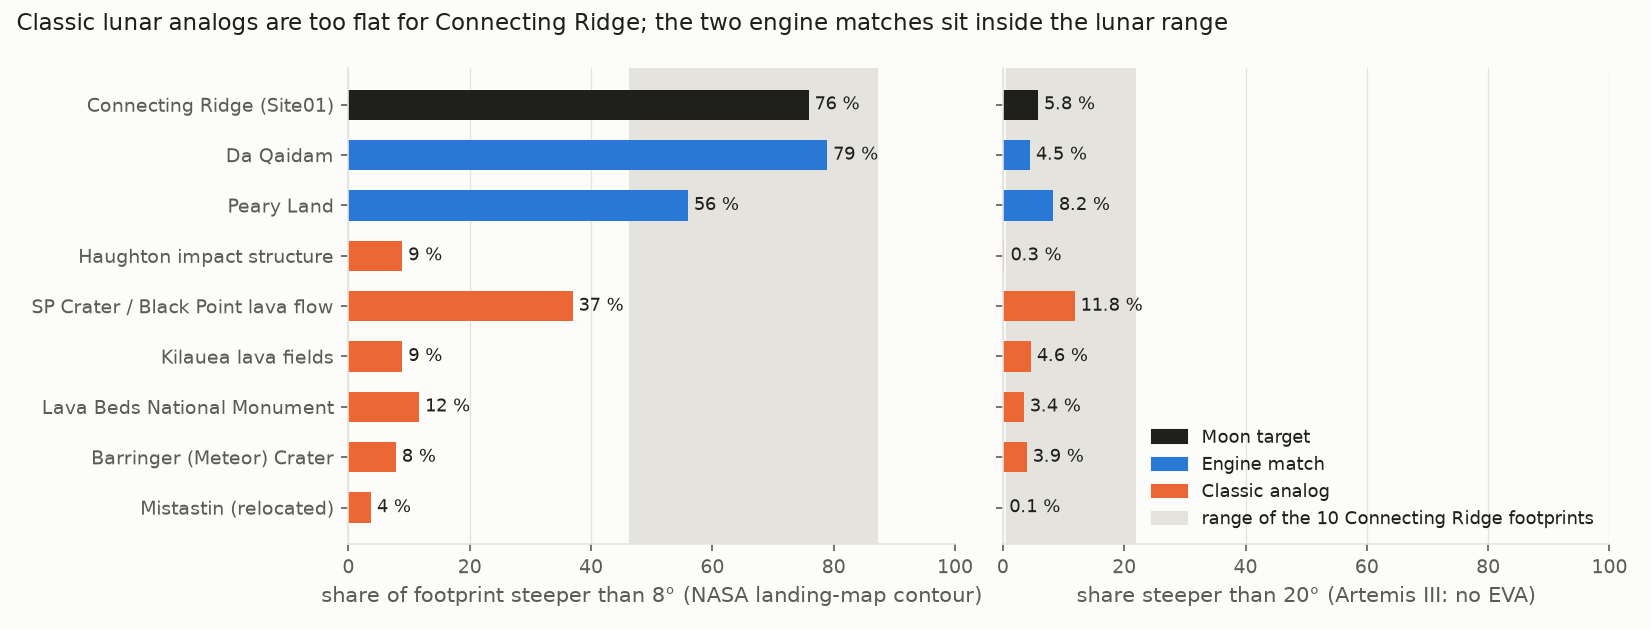
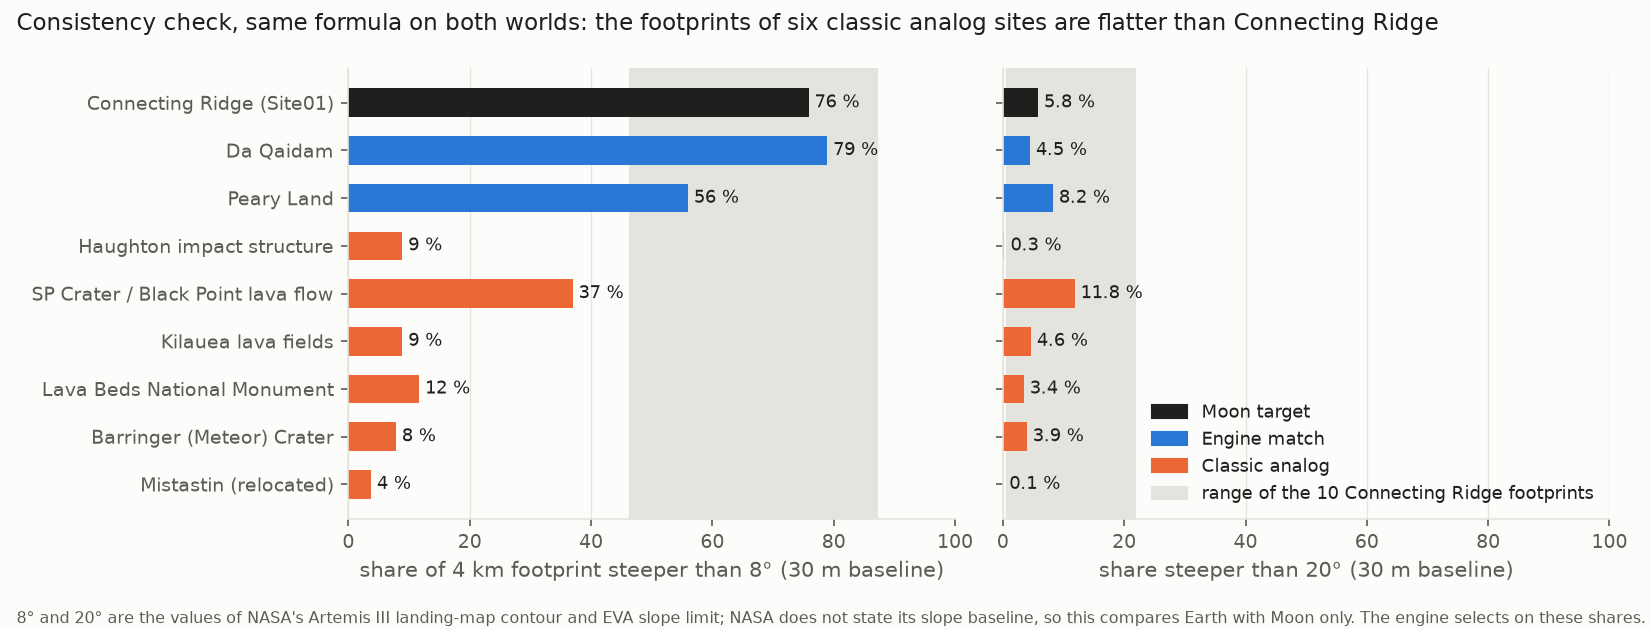
PLAN 2d gate round 2: labels and wording (30 m baseline on figures, M1 column withheld, X1 day length at polar sites, same island/plateau different footprints)

diff --git a/scripts/figures_report.py b/scripts/figures_report.py
@@ -179,8 +179,8 @@ def fig_mission_slopes():
     label = [str(n if isinstance(n, str) and n else i).split(",")[0][:34]
              for n, i in zip(c["name"], c["id"], strict=True)]
     fig, axes = plt.subplots(1, 2, figsize=(11, 4.2), facecolor=SURFACE, sharey=True)
-    panels = [("frac_gt8", "share of footprint steeper than 8° (NASA landing-map contour)", 0),
-              ("frac_gt20", "share steeper than 20° (Artemis III: no EVA)", 1)]
+    panels = [("frac_gt8", "share of 4 km footprint steeper than 8° (30 m baseline)", 0),
+              ("frac_gt20", "share steeper than 20° (30 m baseline)", 1)]
     for ax, (col, title, nd) in zip(axes, panels, strict=True):
         style(ax)
         lo, hi = c[f"range_lo_{col}"].iloc[0], c[f"range_hi_{col}"].iloc[0]
@@ -200,9 +200,14 @@ def fig_mission_slopes():
     n_fp = int(c["n_target_footprints"].iloc[0])
     axes[1].legend(handles, [*color.keys(), f"range of the {n_fp} Connecting Ridge footprints"],
                    loc="lower right", fontsize=8.5, frameon=False, labelcolor=INK)
-    fig.suptitle("Classic lunar analogs are too flat for Connecting Ridge; the two engine "
-                 "matches sit inside the lunar range", x=0.01, ha="left", fontsize=11, color=INK)
-    fig.tight_layout()
+    fig.suptitle("Consistency check, same formula on both worlds: the footprints of six classic "
+                 "analog sites are flatter than Connecting Ridge", x=0.01, ha="left",
+                 fontsize=11, color=INK)
+    fig.text(0.01, 0.005, "8° and 20° are the values of NASA's Artemis III landing-map contour "
+             "and EVA slope limit; NASA does not state its slope baseline, so this compares "
+             "Earth with Moon only. The engine selects on these shares.", fontsize=7.5,
+             color=INK2, ha="left", va="bottom")
+    fig.tight_layout(rect=(0, 0.04, 1, 1))
     fig.savefig(FIG / "fig_mission_slopes.png", dpi=150, facecolor=SURFACE)
     plt.close(fig)
 
@@ -215,10 +220,12 @@ def fig_transfer_matrix():
     import mission_value as mv
 
     cov = mv.coverage(pd.read_parquet(DERIVED / "verdicts.parquet"))
+    cov = cov[cov["lens_id"].ne("M1")]  # stop rule FAIL: M1 publishes no site, no cells drawn
     lenses = ["L1", "L2", "M1", "X1"]
     order = cov.assign(r=cov["state"].map({s: i for i, s in enumerate(mv.STATE_ORDER)}))
     variables = list(order.sort_values(["r", "variable"])["variable"].drop_duplicates())
-    state = {(r.lens_id, r.variable): (r.state, bool(r.facility)) for r in cov.itertuples()}
+    state = {(r.lens_id, r.variable): (r.state, isinstance(r.facility, str) and bool(r.facility))
+             for r in cov.itertuples()}
     look = {"TRANSFERS": (SERIES["L1"], "field", SURFACE),
             "NO-ANALOG": (SERIES["L2"], "facility", INK), "UNOBSERVED": ("#c9c8c2", "?", INK)}
     fig, ax = plt.subplots(figsize=(8.2, 0.34 * len(variables) + 1.6), facecolor=SURFACE)
@@ -233,6 +240,10 @@ def fig_transfer_matrix():
                 txt = "no analog"
             ax.add_patch(plt.Rectangle((xi + 0.04, yi + 0.08), 0.92, 0.84, color=col))
             ax.text(xi + 0.5, yi + 0.5, txt, ha="center", va="center", fontsize=8, color=ink)
+    xm = lenses.index("M1")
+    ax.add_patch(plt.Rectangle((xm + 0.04, 0.08), 0.92, len(variables) - 0.16, color=GRID))
+    ax.text(xm + 0.5, len(variables) / 2, "stop rule FAIL: no site published, no verdict shown",
+            rotation=90, ha="center", va="center", fontsize=8.5, color=INK2)
     ax.set_xlim(0, len(lenses))
     ax.set_ylim(len(variables), 0)
     ax.set_xticks([i + 0.5 for i in range(len(lenses))],
@@ -240,17 +251,22 @@ def fig_transfer_matrix():
                    "X1 ice\n(Mars)"])
     ax.xaxis.tick_top()
     ax.set_yticks([i + 0.5 for i in range(len(variables))],
-                  [v.replace("_", " ")[:44] for v in variables])
+                  [v.replace("_", " ")[:44] + (" *" if v == "day_night_cycle" else "")
+                   for v in variables])
     ax.tick_params(length=0, colors=INK2, labelsize=8.5)
     for s in ax.spines.values():
         s.set_visible(False)
     handles = [plt.Rectangle((0, 0), 1, 1, color=look[s][0]) for s in mv.STATE_ORDER]
     ax.legend(handles, ["TRANSFERS: test it in the field",
                         "NO-ANALOG: not reproduced on Earth; the card names the facility",
-                        "UNOBSERVED: this engine cannot say"], loc="upper center",
+                        "UNOBSERVED: this engine cannot say",
+                        ], loc="upper center",
               bbox_to_anchor=(0.5, -0.02), ncol=1, fontsize=8.5, frameon=False, labelcolor=INK)
     fig.suptitle("Test-transfer matrix: which rows of a field test come home valid",
                  x=0.01, ha="left", fontsize=11, color=INK)
+    fig.text(0.01, 0.005, "* planet-level ledger row (a Mars sol is 24.6 h): the polar ice sites "
+             "do not reproduce it in the midnight-sun field season.", fontsize=7.5, color=INK2,
+             ha="left", va="bottom")
     fig.tight_layout()
     fig.savefig(FIG / "fig_transfer_matrix.png", dpi=150, facecolor=SURFACE)
     plt.close(fig)

diff --git a/scripts/report_tables.py b/scripts/report_tables.py
@@ -276,7 +276,9 @@ def t_mission_headline() -> str:
         f"measure a field site reproduces {cov['L1']['TRANSFERS']} of "
         f"{sum(cov['L1'].values())} L1 test variables, {cov['L2']['TRANSFERS']} of "
         f"{sum(cov['L2'].values())} for L2 and {cov['X1']['TRANSFERS']} of "
-        f"{sum(cov['X1'].values())} for X1; every other row names the facility that replaces "
+        f"{sum(cov['X1'].values())} for X1 (one of them the day length, which the polar X1 "
+        f"sites do not reproduce in the midnight-sun season); every other row names the "
+        f"facility that replaces "
         f"the field site, or is marked unobserved (`docs/test_protocols.md`). M1 publishes no "
         f"site.",
     ])
@@ -330,8 +332,8 @@ def t_mission_criteria() -> str:
     out = pd.DataFrame({
         "group": c["group"], "site": c["name"].fillna(c["id"]), "cell": c["id"],
         "median slope °": c["slope_p50"].round(1),
-        "steeper than 8° (landing-map contour)": [_pct(x) for x in c["frac_gt8"]],
-        "steeper than 20° (no-EVA)": [_pct(x, 1) for x in c["frac_gt20"]],
+        "steeper than 8° (30 m baseline)": [_pct(x) for x in c["frac_gt8"]],
+        "steeper than 20° (30 m baseline)": [_pct(x, 1) for x in c["frac_gt20"]],
         "8° share inside target range": c["in_range_frac_gt8"].map({True: "yes", False: "no"}),
         "20° share inside target range": c["in_range_frac_gt20"].map({True: "yes",
                                                                        False: "no"})})
@@ -360,7 +362,11 @@ def t_coverage() -> str:
             "targets (L1 slope–roughness and L2 shadow casting transfer for both targets; M1 "
             "aqueous minerals are NO-ANALOG for the two analog targets and UNOBSERVED for the "
             "other two; M1's only TRANSFERS row is the day–night cycle from the ledger, and M1 "
-            "publishes no site).")
+            "publishes no site). The day–night cycle is a planet-level ledger row (a Mars sol "
+            "is 24.6 h): the X1 sites that pass are polar and do not reproduce it in the "
+            "midnight-sun field season, so at those sites X1 reproduces 1 variable, not 2. "
+            "The null extrapolation of §1 refers to cells passing the robust set, before the "
+            "ice filter and the visual review.")
 
 
 def t_task_attention() -> str:

diff --git a/scripts/mission_value.py b/scripts/mission_value.py
@@ -8,7 +8,7 @@ mission_criteria : slope descriptors of the Moon targets, of the Earth cells the
                    published Artemis III slope requirements (config/mission.yaml).
 validity         : per lens, what the controls show for the CURRENT engine: random bare land
                    (null) passing the L1 robust test, classic controls, X1 controls and decoys,
-                   M1 stop-rule checks; and the blind rediscovery of known-analog zones.
+                   M1 stop-rule checks; and a sanity check against known-analog zones.
 coverage         : per lens, how many test variables TRANSFER / are NO-ANALOG / UNOBSERVED.
 task_attention   : OpenAlex counts of the named sites with a Moon-only and a Mars-only context
                    (supplementary; hidden_status is NOT recomputed from it).
@@ -170,7 +170,7 @@ def coverage(verdicts: pd.DataFrame) -> pd.DataFrame:
     """Per lens and test variable, one state: the test-transfer matrix (lens/target-level rows)."""
     v = verdicts[verdicts["cell_id"].fillna("").eq("")].copy()
     v["rank"] = v["state"].map({s: i for i, s in enumerate(STATE_ORDER)})
-    v = v.sort_values("rank").drop_duplicates(["lens_id", "variable"])
+    v = v.sort_values("rank", kind="stable").drop_duplicates(["lens_id", "variable"])
     return v[["lens_id", "variable", "state", "facility"]].sort_values(
         ["lens_id", "state", "variable"]).reset_index(drop=True)
 

diff --git a/docs/validation_report.md b/docs/validation_report.md
@@ -42,7 +42,7 @@ matching, and a single verdict source. **Every table below is written by
 - **How selective the L1 test is.** Random bare land (null sample) enters the robust set for Connecting Ridge in 1 of 200 cells and for the Shackleton inner wall in 4 of 200; 0 of the 6 classic controls enter it. A null cell that passes is not an error: it is terrain that matches. Extrapolated to the 196,008 bare-land cells, about 980 cells (95 % CI 25–5,398) would pass for Connecting Ridge, so "2 usable cells" describes our 307-cell sample, not the Earth.
 - **Sanity check against known-analog zones.** 68 of the 300 cells the terrain screen picked lie in known-analog zones (23 %), against 1.4 % of all bare land but 16 % of bare land with the same coarse slope and relief (1.4-fold): most of the excess is steep dry terrain itself. By site, 1 of the 27 Shackleton-wall sites (the largest, Atacama–Puna) and 0 of the 2 Connecting Ridge sites hold a cell in a zone of our list (`config/exclusion_zones.yaml`, which does not list Qaidam).
 - **X1 controls on the current checklist:** 2 of 2 positive controls pass (Beacon Valley is the calibration site, Axel Heiberg is independent) and 2 of 2 wet lowland decoys are rejected. M1: 3 of 4 pre-registered checks pass, so the stop rule is FAIL.
-- **Test-matrix coverage (best state over a lens' targets):** by this engine's measure a field site reproduces 1 of 7 L1 test variables, 1 of 9 for L2 and 2 of 9 for X1; every other row names the facility that replaces the field site, or is marked unobserved (`docs/test_protocols.md`). M1 publishes no site.
+- **Test-matrix coverage (best state over a lens' targets):** by this engine's measure a field site reproduces 1 of 7 L1 test variables, 1 of 9 for L2 and 2 of 9 for X1 (one of them the day length, which the polar X1 sites do not reproduce in the midnight-sun season); every other row names the facility that replaces the field site, or is marked unobserved (`docs/test_protocols.md`). M1 publishes no site.
 <!-- END:mission_headline -->
 
 ### By lens
@@ -445,7 +445,7 @@ the cells cluster into few sites.
 ![Shares of terrain steeper than 8° and 20°: Connecting Ridge, engine matches, classic lunar analogs](figures/fig_mission_slopes.png)
 
 <!-- BEGIN:mission_criteria -->
-| group | site | cell | median slope ° | steeper than 8° (landing-map contour) | steeper than 20° (no-EVA) | 8° share inside target range | 20° share inside target range |
+| group | site | cell | median slope ° | steeper than 8° (30 m baseline) | steeper than 20° (30 m baseline) | 8° share inside target range | 20° share inside target range |
 |---|---|---|---|---|---|---|---|
 | Moon target | Connecting Ridge (Site01) | connecting_ridge | 12.4 | 76 % | 5.8 % | yes | yes |
 | Engine match | Da Qaidam, northern Qaidam Basin margin (Qinghai) | E10K_453_921 | 10.5 | 79 % | 4.5 % | yes | yes |
@@ -472,7 +472,7 @@ Target range = minimum to maximum over the 10 Connecting Ridge footprints (PGDA 
 | M1 | day_night_cycle | aqueous_mineral; atmospheric_pressure; gravity; perchlorate; radiation_dose; temperature | Hydration bands at 1.4 and 1.9 um; Serpentine vs Mg-carbonate |
 | X1 | day_night_cycle; ice_configuration | angle_of_repose; atmospheric_pressure; gravity; perchlorate; radiation_dose; temperature | Overburden dielectric properties (radar / GPR response) |
 
-One state per lens and variable: the best state over the lens' targets (L1 slope–roughness and L2 shadow casting transfer for both targets; M1 aqueous minerals are NO-ANALOG for the two analog targets and UNOBSERVED for the other two; M1's only TRANSFERS row is the day–night cycle from the ledger, and M1 publishes no site).
+One state per lens and variable: the best state over the lens' targets (L1 slope–roughness and L2 shadow casting transfer for both targets; M1 aqueous minerals are NO-ANALOG for the two analog targets and UNOBSERVED for the other two; M1's only TRANSFERS row is the day–night cycle from the ledger, and M1 publishes no site). The day–night cycle is a planet-level ledger row (a Mars sol is 24.6 h): the X1 sites that pass are polar and do not reproduce it in the midnight-sun field season, so at those sites X1 reproduces 1 variable, not 2. The null extrapolation of §1 refers to cells passing the robust set, before the ice filter and the visual review.
 <!-- END:coverage -->
 
 Each showcase site has a test protocol built from this matrix (systems under test, the published
@@ -532,7 +532,7 @@ evidence of order; where git cannot prove the order, the row says so.
 | 22 | B10 visual-review downgrades cap a site's lens at `hypothesis` | 2c gate round 2 | Hard rule: no `hypothesis` on slides | Gêrzê L2, other downgraded L2 cells; Gêrzê leaves the showcase |
 | 23 | X1 seed list (incl. Peary Land) committed with the first X1 scores | 16:02, `b76b21f` | Contract and results pushed together | X1 seeds are not provably pre-registered |
 | 24 | M1 noise floor (B14b) computed on all 69 null footprints (490,734 pixels), not on the floor-setting half of the null that PLAN B14a/B14b specified | B13 null run, 14/11 | Implementation used the whole pool | Floors are fitted on the same null pixels later used to judge false matches, so the false-match check is not independent; M1 failed its stop rule regardless |
-| 25 | Mission-criterion reading (shares of terrain steeper than 8° and 20° set beside the Artemis III requirements), per-lens validity summary, null false-positive rate and blind-rediscovery test | PLAN 2d, 15/11 midday | Tie the results to published NASA requirements; L1 lacked any positive check | Post hoc: computed after every result was known. `frac_gt8` and `frac_gt20` were L1 descriptors from the start (so the slope reading is a consistency check, not an independent test) and `config/exclusion_zones.yaml` was drawn before scoring, but none of these comparisons was pre-registered. The zone check uses an unstratified and a terrain-matched base rate, ignores spatial clustering (no p-value is reported; sites are counted) and the zone list is incomplete (Qaidam, a known Mars analog region, is not in it). The NASA limits are operational limits read at an unstated slope baseline, not similarity targets. No threshold or verdict changed |
+| 25 | Mission-criterion reading (shares of terrain steeper than 8° and 20° set beside the Artemis III requirements), per-lens validity summary, pass rate of random bare land (a prevalence estimate) and the sanity check against known-analog zones | PLAN 2d, 15/11 midday | Tie the results to published NASA requirements; L1 lacked any positive check | Post hoc: computed after every result was known. `frac_gt8` and `frac_gt20` were L1 descriptors from the start (so the slope reading is a consistency check, not an independent test) and `config/exclusion_zones.yaml` was drawn before scoring, but none of these comparisons was pre-registered. The zone check uses an unstratified and a terrain-matched base rate, ignores spatial clustering (no p-value is reported; sites are counted) and the zone list is incomplete (Qaidam, a known Mars analog region, is not in it). The NASA limits are operational limits read at an unstated slope baseline, not similarity targets. No threshold or verdict changed |
 | 26 | Task-specific Attention (Moon-only and Mars-only context on the site-name queries) | PLAN 2d, 15/11 midday | Fidelity is per task; the B8 context mixes both bodies | Supplementary table only; `hidden_status` unchanged |
 | 27 | Test protocols and the TRL reading of a card (`docs/test_protocols.md`) | PLAN 2d, 15/11 midday | State what a field campaign may claim | A card is an input to a project's own definition of its relevant environment; no hardware was tested and no TRL is assigned or certified |
 

diff --git a/docs/slides_draft.md b/docs/slides_draft.md
@@ -30,7 +30,7 @@ Challenge: Identify Earth Locations that Analog the Permanent Moon Base Location
 Team ⟨name⟩ · NASA Space Apps 2026, Ho Chi Minh City.
 Visual: wind-tunnel model | Moon south pole | Mars (split frame).
 
-## Slide 2 — The problem: famous analog field sites are too flat for the Moon Base ridge
+## Slide 2 — The problem: six famous analog field sites are too flat for the Moon Base ridge
 - NASA's Artemis III landing requirements: **"Surface slope for landing (100m): <10 deg"**, with
   8° contours on the landing map, and **"Surface slope limit for EVA (2km): <20 deg"**
   (NASA, Artemis Human Landing System Overview, Space Apps 2025, NTRS 20250009323).
@@ -60,7 +60,8 @@ Visual: data-flow diagram, NASA data on both sides → same functions → verdic
 ## Slide 4 — Can you trust it? Controls, decoys and a failed test we report
 - **Terrain test is selective:** random bare land passes it for Connecting Ridge in **1 of 200**
   cells [`null_connecting_ridge_robust` / `null_connecting_ridge_n`]; **0 of 6** classic sites
-  pass [`classic_robust`]; the result holds in three test configurations.
+  pass [`classic_robust`]. A cell must pass three test configurations; the strictest one cuts
+  the screened cells from 119 to 5 (report §3).
 - **Ice test:** **2 of 2** polar-desert controls pass (one is the calibration site), **2 of 2**
   wet-permafrost decoys are rejected [`x1_positive_pass`, `x1_decoy_rejected`]; our own
   Pamir–Changtang hypothesis is rejected, **0 of 6** [`x1_pamir_changtang_pass` /
@@ -70,9 +71,11 @@ Visual: data-flow diagram, NASA data on both sides → same functions → verdic
   `m1_checks_n`], but NASA's Lake Salda pair reaches only **0.052 km²** < 0.1 km²
   [`salda_relocated_largest_patch_km2`]. Our rule says FAIL [`m1_stop_rule_verdict`], so **we
   publish no mineral analog**.
-- **Sanity check, not proof:** the largest site the terrain engine finds is the Atacama–Puna,
-  the most used analog region — **1 of 27** sites [`rediscovery_shackleton_rim_sites_with_zone_cell`
-  / `rediscovery_shackleton_rim_sites`].
+- **Sanity check, not proof:** for the steep Shackleton wall (not the ridge), the largest site
+  the terrain engine finds is the Atacama–Puna, one of the most studied analog regions —
+  **1 of 27** sites [`rediscovery_shackleton_rim_sites_with_zone_cell` /
+  `rediscovery_shackleton_rim_sites`]; against land of the same coarse terrain the excess is
+  only **1.4-fold** [`rediscovery_matched_enrichment`].
 - Every rule changed after seeing data is listed in the report (Deviations table).
 Visual: `docs/figures/fig_m1_stop_rule.png` beside a four-row control table.
 
@@ -92,15 +95,16 @@ Visual: `docs/figures/fig_m1_stop_rule.png` beside a four-row control table.
   `scarcity_L1_connecting_ridge_n_usable_not_downgraded`].
 - **Known for Mars, 1 paper in a lunar context:** Da Qaidam is a known Mars analog region,
   **71** analog papers in a Mars context and **1** in a Moon context
-  [`task_attention_da_qaidam_mars`, `task_attention_da_qaidam_moon`]; new here is its match to
-  the Moon Base ridge. Neither site is in our known-analog zone list
+  [`task_attention_da_qaidam_mars`, `task_attention_da_qaidam_moon`] (the query covers the
+  whole Qaidam basin): rarely studied in a lunar context. Neither site is in our known-analog zone list
   [`rediscovery_connecting_ridge_sites_with_zone_cell` = 0].
 - **One camp, two tests:** Peary Land passes the Moon terrain test and the Mars ice test
   (semi-quantitative) — the only such site in the sample [`multilens_engine_engine_sites` = 1].
-- **Same place, different verdict per test:** Devon Island fails the Moon terrain test
-  [`classic_robust` = 0] and passes the Mars ice test [`x1_seed_devon_island_passes`]; the
-  Changtang plateau fails the ice test [`x1_seed_changtang_north_passes`] and passes the terrain
-  test for the Shackleton wall [`site_gerze_lenses_engine_confirmed`].
+- **Same island or plateau, different footprints, different verdict per test:** on Devon
+  Island the Haughton footprint fails the Moon terrain test [`classic_robust` = 0] while another
+  Devon footprint passes the Mars ice test [`x1_seed_devon_island_passes`]; on the Changtang
+  plateau a northern footprint fails the ice test [`x1_seed_changtang_north_passes`] while Gêrzê
+  passes the terrain test for the Shackleton wall [`site_gerze_lenses_engine_confirmed`].
 - Low literature count outside known regions ("hidden"): **Zanda/Gar**, western Tibet, **1**
   paper [`site_zanda_gar_attention`] and **Gêrzê**, **0** [`site_gerze_attention`] — for
   Shackleton-wall terrain.
@@ -118,7 +122,9 @@ Visual: `docs/figures/fig_sites_map.png`, Da Qaidam and Peary Land highlighted.
 - By this measure a terrain site reproduces **1 of 7** test variables; **5** need a named
   facility (offload rig for 0.165 g, thermal-vacuum chamber, irradiation…), **1** is unobserved
   [`coverage_L1_transfers`, `coverage_L1_total`, `coverage_L1_facility`,
-  `coverage_L1_unobserved`]. Ice: **2 of 9** [`coverage_X1_transfers` / `coverage_X1_total`].
+  `coverage_L1_unobserved`]. Ice: **2 of 9** on paper [`coverage_X1_transfers` /
+  `coverage_X1_total`], but one is the day length, which polar sites do not reproduce under the
+  midnight Sun: **1 of 9** at the sites that pass.
   Low Sun: **1 of 9** [`coverage_L2_transfers` / `coverage_L2_total`].
 - The honest limit, as a number: the best Earth site has the Sun below 7° for **28 %** of
   daylight; the lunar target, **100 %** [`l2_earth_best_lowsun_frac_daylight` = 0.277,

diff --git a/docs/test_protocols.md b/docs/test_protocols.md
@@ -1,6 +1,6 @@
 # Test protocols for the showcase sites (PLAN 2d)
 
-Generated 2026-11-15 14:23 by `scripts/mission_value.py` from `verdicts.parquet`, `field_facility.json`, `mission_criteria.parquet` and `config/mission.yaml`. Post hoc presentation layer: no threshold or verdict changed.
+Generated 2026-11-15 14:29 by `scripts/mission_value.py` from `verdicts.parquet`, `field_facility.json`, `mission_criteria.parquet` and `config/mission.yaml`. Post hoc presentation layer: no threshold or verdict changed.
 
 ## What a card is, in NASA's terms
 
@@ -43,12 +43,12 @@ NASA's TRL definitions make a *"Documented definition of relevant environment"* 
 - **NASA shortfalls addressed (ledger):** —
 - **Reproduced at a TRANSFERS site:** ice configuration: permafrost, ice-bearing ground that never thaws from above, dry overburden (verdict variable ice_configuration; semi-quantitative)
 - **Measure:** depth to ice-cemented ground, drilling energy and bit temperature through the dry layer into ice, ice-table mapping before drilling
-- **Not reproduced (facility or unobserved):** Mars pressure and CO2 atmosphere, temperature, perchlorate chemistry, radar response of the overburden
+- **Not reproduced (facility or unobserved):** Mars pressure and CO2 atmosphere, temperature, perchlorate chemistry, radar response of the overburden; the 24.6 h day-night cycle is not reproduced at the polar sites in the midnight-sun field season
 - **Test-matrix coverage:** 2 variable(s) transfer, 6 are not reproduced on Earth, 1 unobserved (of 9; best state over the lens' targets)
 
 ### M1 — Aqueous-mineral instrument rehearsal
 
-- **Systems under test:** none certified by this engine
+- **Systems under test:** none: no site is published for this lens
 - **Requirement it rehearses:** —
 - **NASA shortfalls addressed (ledger):** —
 - **Reproduced at a TRANSFERS site:** none: M1 failed its pre-registered stop rule, no M1 site is published
@@ -78,7 +78,7 @@ Evidence: engine-confirmed **L2** · 1 cell(s), span 0 km · showcase rule a
 Evidence: engine-confirmed **L1**, engine-semiquant **X1** · 1 cell(s), span 0 km · showcase rule a,b
 
 - **L1 Slope traverse and touchdown-terrain rehearsal.** Test: crewed/uncrewed rover mobility and path planning on slopes, EVA traverse planning, hazard-map products for landing-site selection. Measure: traverse energy, slip and path length per km against the slope classes <8, 8-20 and >20 deg; compare with predictions made on the lunar DEM. Not reproduced here: wheel-soil traction and sinkage (gravity, regolith), dust, vacuum, thermal: facility rows of the card.
-- **X1 Ice-access drilling rehearsal under dry overburden.** Test: 1-2 m class ice-access drills and sample handling, site characterisation before drilling. Measure: depth to ice-cemented ground, drilling energy and bit temperature through the dry layer into ice, ice-table mapping before drilling. Not reproduced here: Mars pressure and CO2 atmosphere, temperature, perchlorate chemistry, radar response of the overburden.
+- **X1 Ice-access drilling rehearsal under dry overburden.** Test: 1-2 m class ice-access drills and sample handling, site characterisation before drilling. Measure: depth to ice-cemented ground, drilling energy and bit temperature through the dry layer into ice, ice-table mapping before drilling. Not reproduced here: Mars pressure and CO2 atmosphere, temperature, perchlorate chemistry, radar response of the overburden; the 24.6 h day-night cycle is not reproduced at the polar sites in the midnight-sun field season.
 - **Artemis III slope reading, cell E10K_729_-319:** 56% of the footprint is steeper than 8° (Connecting Ridge reference 76%), 8.2% is steeper than the 20° EVA limit (reference 5.8%). Our slope is computed on a 30 m baseline inside a 4 km footprint on both worlds. NASA gives the area (100 m, 2 km), not the slope baseline, so these shares compare Earth with Moon only, not with NASA's maps; the limits are operational limits, not similarity targets; the two DEMs (Copernicus GLO-30, PGDA 78 resampled to 30 m) do not have the same effective resolution. The shares describe the 4 km footprint centred on each site's coordinate, not the whole site, and they are among the descriptors the engine selects on: a consistency check, not an independent test.
 - **Facility rows to close elsewhere:** 11 (see `docs/field_facility.md`, same site).
 

diff --git a/PLAN.md b/PLAN.md
@@ -343,6 +343,7 @@ Lý do: kiểm toán 5 tiêu chí (15/11 11:00) thấy Validity thiếu bằng c
 - 2026-11-14 12:12 · Opus 5.5 · cổng 1 lần 1 = REVISE (7 blocker); đã sửa: lưới phổ 2490 nm + PARAM_TABLE, MICA numerator, mẫu null phân tầng, cờ vùng đệm thay vì xóa, min_scale chống Σ suy biến + kỳ vọng L2 no-analog, chip ảnh LROC/CTX cho ablation, trạng thái engine-semiquant cho X1; thêm footprint 4 km + đệm 3 km, kỳ vọng đối chứng ghi trước, quy tắc cắt L2 tại G1 · test: chưa có code
 
 ### Nhật ký — Bảo (A)
+- 2026-11-15 14:40 · Fable 5.2 · Cổng 2 (PR #7) lần 2 = FIX (6 chỗ chữ/nhãn). Đã sửa: Deviations 25 dùng đúng thuật ngữ; slide 4 "one of the most studied", ghi rõ là vách Shackleton và mức 1,4 lần; hình độ dốc ghi baseline 30 m + "consistency check" + chú thích NASA không nêu baseline; ma trận bỏ ô M1 (cột xám "stop rule FAIL"); X1 2/9 chỉ trên giấy, 1/9 tại site cực (mặt trời nửa đêm); "same island/plateau, different footprints"; Da Qaidam "rarely studied in a lunar context" · test: 190 passed, ruff sạch, báo cáo FRESH
 - 2026-11-15 14:35 · Fable 5.2 · Cổng 2 (PR #7) lần 1 = FIX (12 điểm, phần lớn là khẳng định vượt dữ liệu). Đã sửa: (1) NASA ghi vùng 100 m / 2 km, không ghi baseline độ dốc → số đo chỉ so Trái Đất với Mặt Trăng, là kiểm tra nhất quán (descriptor dùng để chọn); (2) tỷ lệ null = độ phổ biến, ngoại suy ≈ 980 ô (CI 25–5.398) đạt Connecting Ridge → "2 ô" chỉ đúng trong mẫu; (3) "tự tìm lại" hạ thành kiểm tra hợp lý: so nền cùng địa hình chỉ 1,4 lần (23 % so với 16 %), 1/27 site, bỏ p; (4) bỏ câu "credit TRL", phiếu là đầu vào cho định nghĩa môi trường của dự án; (5) Da Qaidam = analog Sao Hỏa đã biết, 71 bài Mars / 1 bài Moon (truy vấn lồng trong B8); (6) khóa cho Devon/Changtang/Gêrzê, test giá trị gõ cạnh khóa; (7) `task_attention` không ghi file khi test; M1 không in độ phủ; L2 gắn yêu cầu chiếu sáng; X1 bỏ shortfall Mặt Trăng; slide 5 trả lại các câu rào bắt buộc của hợp đồng 2c · test: 190 passed, ruff sạch, báo cáo FRESH
 - 2026-11-15 12:25 · Fable 5.2 (người dùng ủy quyền toàn quyền, bỏ cổng 1) · Giai đoạn 2d (A21–A23, B18). Kết quả đọc từ bảng: Connecting Ridge 76 % địa hình dốc > 8°, 5,8 % > 20°; 2/2 ô engine giữ nằm trong khoảng của mục tiêu trên cả hai số đo, 0/6 analog kinh điển (trung vị 8,9 %, thấp hơn 8,6 lần); null vào tập bền vững 1/200 (CR), 4/200 (Shackleton); sàng thô rơi vào vùng analog đã biết 68/300 so với nền 1,4 % (16 lần); 0/5 ô CR nằm trong vùng đã biết; X1: 2/2 đối chứng dương, 2/2 mồi nhử bị loại; Da Qaidam 76 bài ngữ cảnh Mars, 1 bài ngữ cảnh Moon. Slide v3 viết lại (file của Linh, Linh rà) · test: 189 passed, ruff sạch, báo cáo FRESH
 - 2026-11-15 10:30 · Opus 5.5 · PR #5 merge (`da4390e`). Cổng 2 cuối (CF; phạm vi `31bd1fa..main`, gồm 3 commit B17 Linh đẩy thẳng main) = FIX. Bảo sửa trên nhánh (file của Linh, báo qua PR): `web/app.js` nhãn "Literature attention: yes" đọc ngược → "Hidden (low Attention under the B8 query)" + Attention riêng + câu rào Deviations 21; schema: `source` của dòng Facility phải là chuỗi khác rỗng (+ test); test `SITE_ATTENTION_MAX == ATTENTION_MAX`; `slide_numbers.py` `fillna` cho `showcase`. **Cho Linh (B12):** slide 5 bỏ dòng "Do not use the word hidden" (`sites_attention_known` = 7); slide 6 "native rank 43/26/44 of 49" và "ice flag 0.15" cần khóa trong `slide_numbers.json`; slide 4 "every miss is on the slide" → "all 20 checks are in the validation report"; không đẩy thẳng `main` · test: 180 passed, ruff sạch, báo cáo FRESH
